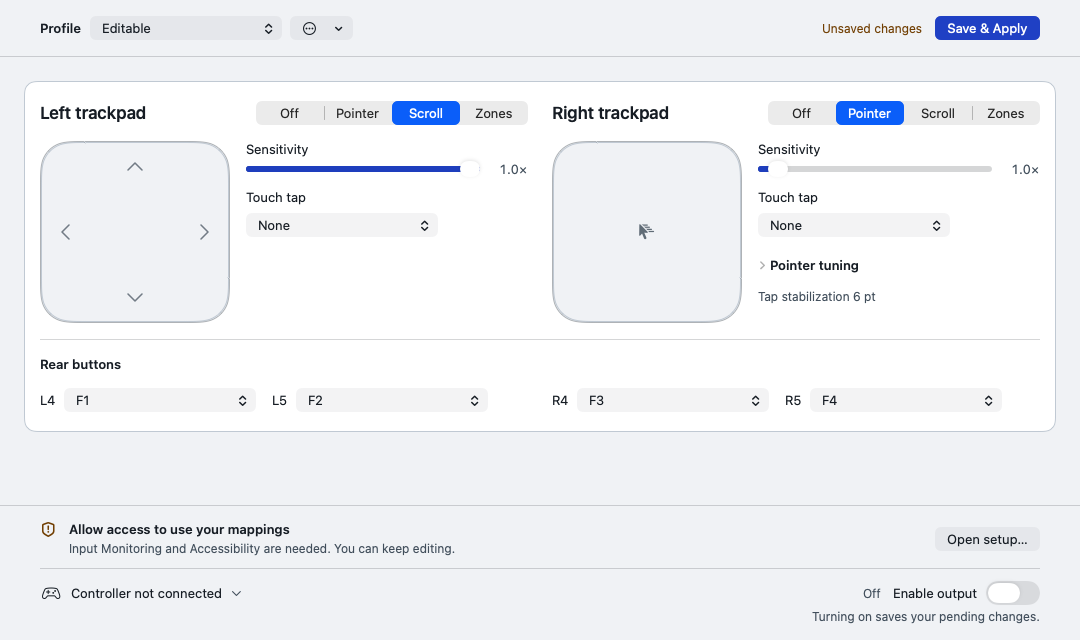
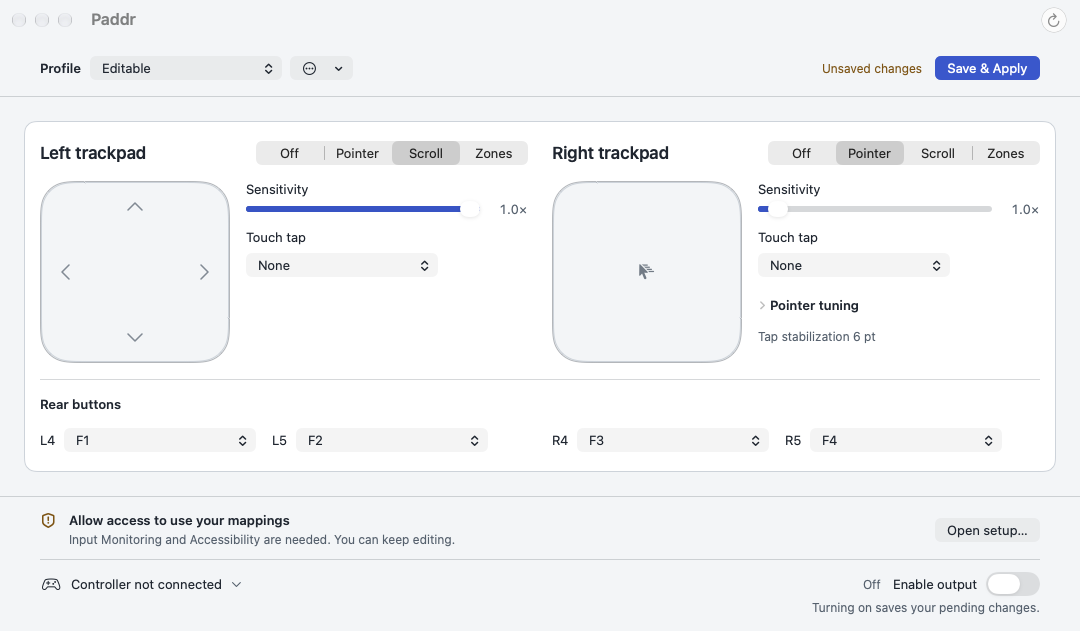
docs: replace all README captures with correctly sized windows

diff --git a/Tests/PaddrAppSupportTests/FamilyConsoleLayoutEvidenceTests.swift b/Tests/PaddrAppSupportTests/FamilyConsoleLayoutEvidenceTests.swift
@@ -118,6 +118,130 @@ final class FamilyConsoleLayoutEvidenceTests: XCTestCase {
         }
     }
 
+    /// README captures use production window construction, not the deliberately
+    /// fixed viewports above that exercise constrained/responsive layouts.
+    func testExportReadmeWindowEvidence() async throws {
+        guard let path = ProcessInfo.processInfo.environment["PADDR_UI_EVIDENCE_DIR"] else {
+            throw XCTSkip("Set PADDR_UI_EVIDENCE_DIR to export README window evidence")
+        }
+        let directory = URL(fileURLWithPath: path, isDirectory: true)
+        try FileManager.default.createDirectory(at: directory, withIntermediateDirectories: true)
+        let model = try makeEditableMenuModel(hasSystemAccess: false)
+        let initialized = await waitUntil { model.isInitialized }
+        XCTAssertTrue(initialized)
+        model.configuration.rearButtons = .init(l4: "F1", l5: "F2", r4: "F3", r5: "F4")
+        let readyModel = try makeEditableMenuModel(hasSystemAccess: true)
+        let ready = await waitUntil { readyModel.isInitialized }
+        XCTAssertTrue(ready)
+
+        for (theme, scheme, appearance) in [
+            ("light", ColorScheme.light, NSAppearance.Name.aqua),
+            ("dark", ColorScheme.dark, NSAppearance.Name.darkAqua)
+        ] {
+            model.configuration.left.mode = .scroll
+            model.configuration.right.mode = .mouse
+            try await exportReadmeWindow(
+                ConfigurationView(model: model, managesWindowSize: true),
+                scheme: scheme, appearance: appearance,
+                to: directory.appendingPathComponent("readme-overview-\(theme).png")
+            )
+            try await exportReadmeWindow(
+                ConfigurationView(model: readyModel, managesWindowSize: true),
+                scheme: scheme, appearance: appearance,
+                to: directory.appendingPathComponent("readme-access-ready-\(theme).png")
+            )
+            model.configuration.left.mode = .dpad
+            for layout in PadZoneLayout.allCases {
+                model.configuration.left.zoneLayout = layout
+                try await exportReadmeWindow(
+                    ConfigurationView(model: model, managesWindowSize: true),
+                    scheme: scheme, appearance: appearance,
+                    to: directory.appendingPathComponent("readme-zones-\(layout.rawValue)-\(theme).png")
+                )
+            }
+            model.configuration.left.mode = .mouse
+            model.configuration.right.mode = .dpad
+            model.configuration.right.zoneLayout = .radialFour
+            try await exportReadmeWindow(
+                ConfigurationView(model: model, managesWindowSize: true, initialTuningExpanded: true),
+                scheme: scheme, appearance: appearance,
+                to: directory.appendingPathComponent("readme-expanded-\(theme).png")
+            )
+            model.configuration.left.mode = .dpad
+            model.configuration.left.zoneLayout = .radialFour
+            try await exportReadmeWindow(
+                ConfigurationView(model: model, managesWindowSize: true),
+                scheme: scheme, appearance: appearance,
+                to: directory.appendingPathComponent("readme-shorter-\(theme).png")
+            )
+            try await exportReadmeWindow(
+                OnboardingGuideView(model: model, onSkip: {}, onComplete: {}),
+                isGuide: true, scheme: scheme, appearance: appearance,
+                to: directory.appendingPathComponent("readme-guide-welcome-\(theme).png")
+            )
+            var pager = OnboardingPager()
+            pager.advance()
+            pager.advance()
+            try await exportReadmeWindow(
+                OnboardingGuideView(model: model, onSkip: {}, onComplete: {}, initialPager: pager),
+                isGuide: true, scheme: scheme, appearance: appearance,
+                to: directory.appendingPathComponent("readme-guide-permissions-\(theme).png")
+            )
+        }
+    }
+
+    private func exportReadmeWindow<Content: View>(
+        _ content: Content,
+        isGuide: Bool = false,
+        scheme: ColorScheme,
+        appearance: NSAppearance.Name,
+        to url: URL
+    ) async throws {
+        let size = isGuide ? PaddrStyle.Metrics.guideWindowSize : PaddrStyle.Metrics.defaultWindowSize
+        let window = NSWindow(
+            contentRect: NSRect(origin: .zero, size: size),
+            styleMask: isGuide ? PaddrFamilyWindowChrome.styleMask : PaddrFamilyWindowChrome.configurationStyleMask,
+            backing: .buffered, defer: false
+        )
+        window.isReleasedWhenClosed = false
+        defer { window.close() }
+        window.title = isGuide ? "Paddr Guide" : "Paddr"
+        window.appearance = NSAppearance(named: appearance)
+        window.collectionBehavior.insert(.fullScreenNone)
+        window.standardWindowButton(.zoomButton)?.isEnabled = false
+        window.tabbingMode = .disallowed
+        let controller = NSHostingController(rootView: content
+            .environment(\.colorScheme, scheme)
+            .environment(\.controlActiveState, .key))
+        if !isGuide {
+            window.toolbarStyle = .unifiedCompact
+            controller.sizingOptions = []
+        }
+        window.contentViewController = controller
+        PaddrFamilyWindowChrome.apply(to: window)
+        if isGuide {
+            PaddrFamilyWindowChrome.setUsableLayoutSize(size, for: window)
+            PaddrFamilyWindowChrome.setMinimumUsableLayoutSize(PaddrStyle.Metrics.minimumGuideWindowSize, for: window)
+        } else {
+            PaddrFamilyWindowChrome.installConfigurationTitle(window.title, in: window)
+            PaddrFamilyWindowChrome.setFreshDefaultUsableFrame(for: window)
+        }
+        if let screen = window.screen?.visibleFrame {
+            window.setFrameTopLeftPoint(NSPoint(x: screen.minX + 80, y: screen.maxY - 40))
+        }
+        await settle(controller.view, passes: 60)
+        if !isGuide {
+            let scroll = try XCTUnwrap(configurationScrollView(in: controller.view))
+            let document = try XCTUnwrap(scroll.documentView)
+            XCTAssertEqual(scroll.contentSize.height, document.bounds.height, accuracy: 2,
+                "README capture must fit its full document without blank space or screen-limited clipping")
+        }
+        // Include the actual titlebar instead of leaving its reserved area blank.
+        let frameView = try XCTUnwrap(window.contentView?.superview)
+        frameView.layoutSubtreeIfNeeded()
+        try exportPNG(frameView, to: url)
+    }
+
     private func exportEvidence<Content: View>(
         _ content: Content,
         size: NSSize,

diff --git a/docs/images/README.md b/docs/images/README.md
@@ -1,54 +1,70 @@
 # Native interface evidence
 
-Regenerated on 2026-10-26 from merged PR #92, commit
-`c211657d3dcff3e38e7835508993ce0cef966172`, using production SwiftUI/AppKit views on macOS 27.2,
-build `26B118`, with Xcode 27.0. These are native view captures from the existing
-inert `FamilyConsoleLayoutEvidenceTests` fixture, not HTML mockups or live
-controller sessions. They exclude the AppKit titlebar.
+All twelve README images were replaced on 2026-10-26 using production SwiftUI/AppKit
+views on macOS 27.2, build `26B118`, with Xcode 27.0. Application code is unchanged
+from merged PR #92 (`c211657d3dcff3e38e7835508993ce0cef966172`). The README exporter
+is `FamilyConsoleLayoutEvidenceTests.testExportReadmeWindowEvidence`.
 
-- `paddr-profile-overview.png`: dark appearance, editable example draft, left
-  Scroll/right Pointer, collapsed tuning, and rear bindings F1–F4.
-- `paddr-profile-overview-light.png`: the same workspace in light appearance.
-- `paddr-auto-sized-tuning.png`: content-driven window with left Pointer tuning
-  expanded, right Zones, and all rear bindings visible.
-- `paddr-auto-sized-zones.png`: the same managed window after switching the left
-  pad to Zones, showing the shorter content height. These managed captures include
-  the content view's reserved titlebar area; AppKit titlebar controls are outside it.
-- `paddr-zones-*.png`: all five left-trackpad layouts with right Pointer, light
-  appearance. These example draft bindings are not built-in presets.
+These are complete native window-frame renders, including the AppKit titlebar,
+with inert in-memory example data. They are not HTML mockups or live controller
+sessions. SwiftUI controls use key-window presentation; the offscreen AppKit
+window chrome is inactive. No user profile, permission request, or mapped output
+is involved.
+
+Configuration captures use `ConfigurationView(managesWindowSize: true)` inside
+an `NSHostingController` and the production window chrome and sizing helpers.
+The exporter lets content measurements set the height, then checks that the scroll
+viewport matches the full document within two points. A fixed-height canvas, extra
+blank band, or screen too small for the complete document fails this check. The
+capture includes the actual titlebar instead of an empty reserved titlebar area.
+
+The guide uses its production 720 × 480 usable layout, plus titlebar. Its welcome
+page intentionally has more space than its access page; the app's guide does not
+use the configuration window's automatic sizing.
+
+| Captures | Window image dimensions |
+| --- | --- |
+| Profile overview, light and dark | 1080 × 631 |
+| Expanded Pointer tuning | 1080 × 853 |
+| Both pads in Zones | 1080 × 677 |
+| Access granted | 1080 × 577 |
+| Radial, corners, left/right, top/bottom zone layouts | 1080 × 677 |
+| 3 × 3 zone layout | 1080 × 631 |
+| Guide welcome and access pages | 720 × 512 |
+
+- `paddr-profile-overview.png` and `paddr-profile-overview-light.png`: editable
+  example draft, left Scroll/right Pointer, collapsed tuning, rear bindings F1–F4.
+- `paddr-auto-sized-tuning.png`: left Pointer tuning expanded, right Zones, dark.
+- `paddr-auto-sized-zones.png`: both pads in Zones, dark, shorter content height.
+- `paddr-zones-*.png`: all five left-trackpad layouts with right Pointer, light.
 - `paddr-access-ready-light.png`: both permissions granted, no controller/puck
-  connected, output off, light appearance. This is simulated access state, not a
-  live permission or controller verification.
-- `paddr-onboarding.png`: guide welcome page, light appearance.
-- `paddr-permissions.png`: guide page 3 using the shared permission controls,
-  light appearance.
+  connected, output off, light. This is simulated access state.
+- `paddr-onboarding.png`: guide welcome page, light.
+- `paddr-permissions.png`: guide page 3 using the shared permission controls, light.
 
-Unless noted otherwise above, the example model has neither permission granted,
-no controller/puck connected, and output off. It uses in-memory profiles and never emits mapped input. The
-baseline workspace captures use a fixed 1080 × 640 fixture. The actual application
-now measures its content height and fits the screen. Managed-window evidence is
-exported as `managed-expanded-dark.png` and `managed-collapsed-dark.png`; its
-profile/save and output controls remain fixed when screen limits require scrolling. An editable example profile
-named Editable is used throughout.
+Unless noted otherwise, the example model has neither permission granted, no
+controller/puck connected, and output off. Its profile is named Editable. Bindings
+are example drafts, not built-in presets.
 
-The full exporter additionally covers 680 × 600 and 1600 × 900 workspaces,
-complete scroll documents, dark zone/guide views, expanded pointer tuning, both
-pads off, individual missing permissions, granted access, and enlarged text.
-Regenerate it with:
+Regenerate the README captures with:
 
 ```bash
 PADDR_UI_EVIDENCE_DIR=/absolute/path/to/evidence \
 swift test -Xswiftc -warnings-as-errors \
-  --filter FamilyConsoleLayoutEvidenceTests
+  --filter FamilyConsoleLayoutEvidenceTests/testExportReadmeWindowEvidence
 ```
 
-Inspect captures for clipping and private data before copying selected files here.
-Update README alt text and this metadata to match. These fixtures do not establish
-physical-controller compatibility, latency, or manual VoiceOver/keyboard behavior;
-see [the implementation verification record](../ui/PADDR_REDESIGN_VALIDATION.md).
+Export names start with `readme-`. Copy `overview-{dark,light}` to the two profile
+images, `expanded-dark` and `shorter-dark` to the auto-sized images,
+`access-ready-light` to its matching image, and `guide-{welcome,permissions}-light`
+to onboarding/permissions. The five `zones-*-light` images use enum raw names:
+`radial-four`, `four-corners`, `horizontal-two`, `vertical-two`, and `grid-nine`.
 
-The existing eleven captures were regenerated and are byte-identical to those
-merged in #92. The access-granted workspace is newly included here. The README
-also now displays the managed expanded-tuning capture. Compatibility with released
-macOS 27 and macOS 27.2 release candidate is maintainer-confirmed separately; this
-export does not establish that hardware compatibility.
+The separate `testExportConfigurationRenderEvidence` retains fixed viewport
+stress cases for responsive-layout checks; those exports are not README images.
+Inspect replacements for clipping and private data before copying them here.
+
+Maintainer confirmation establishes the reported released macOS 27 and macOS 27.2
+release-candidate compatibility. These fixtures do not establish hardware
+compatibility, latency, or manual VoiceOver/keyboard behavior; see
+[the implementation verification record](../ui/PADDR_REDESIGN_VALIDATION.md).

diff --git a/README.md b/README.md
@@ -13,7 +13,7 @@ See [CHANGELOG.md](CHANGELOG.md) for release history and current compatibility n
 
 The configuration window follows macOS light and dark appearance and keeps both trackpads independently editable. Profile selection and **Save & Apply** stay visible above the scrolling workspace; **Enable output** and output readiness stay below it. Common settings remain visible, while **Pointer tuning** reveals advanced controls and summarizes the enabled tuning when collapsed. Paddr manages the window size: it uses a 1080-point width when the screen allows, grows when Pointer tuning opens, and shrinks when it closes. Manual resizing is disabled. The window stays within the available screen area; scrolling remains available when the content is too tall to fit.
 
-The screenshots render the native views with inert example data: no puck connected and output off. The main examples show permissions still needed; the access-granted example below simulates both permissions granted. The bindings are example drafts, not built-in presets. [View the light appearance](docs/images/paddr-profile-overview-light.png).
+The screenshots render complete native windows at their app-managed sizes with inert example data: no puck connected and output off. The main examples show permissions still needed; the access-granted example below simulates both permissions granted. The bindings are example drafts, not built-in presets. [View the light appearance](docs/images/paddr-profile-overview-light.png).
 
 Opening **Pointer tuning** expands the window to keep the acceleration, smoothing, and tap-stability controls visible. Switching to shorter content shrinks it again.
 

diff --git a/CHANGELOG.md b/CHANGELOG.md
@@ -9,8 +9,9 @@ User-visible changes to Paddr are recorded here. Release entries describe confir
 - Record maintainer-confirmed operation with a puck-connected Steam Controller 2 on
   released macOS 27 and macOS 27.2 release candidate, superseding the historical
   beta-only compatibility notes below. Bluetooth and direct USB remain unvalidated.
-- Refresh native interface captures and show the automatically sized Pointer tuning
-  workspace in the README. These inert fixtures are separate from hardware confirmation.
+- Replace every README screenshot with a complete native window capture. Configuration
+  captures use content-driven sizing, including the shorter access-granted workspace
+  and expanded Pointer tuning. These inert fixtures are separate from hardware confirmation.
 - Update local build instructions for Xcode 27 at its standard application path.
 
 ### Native mapping workspace
